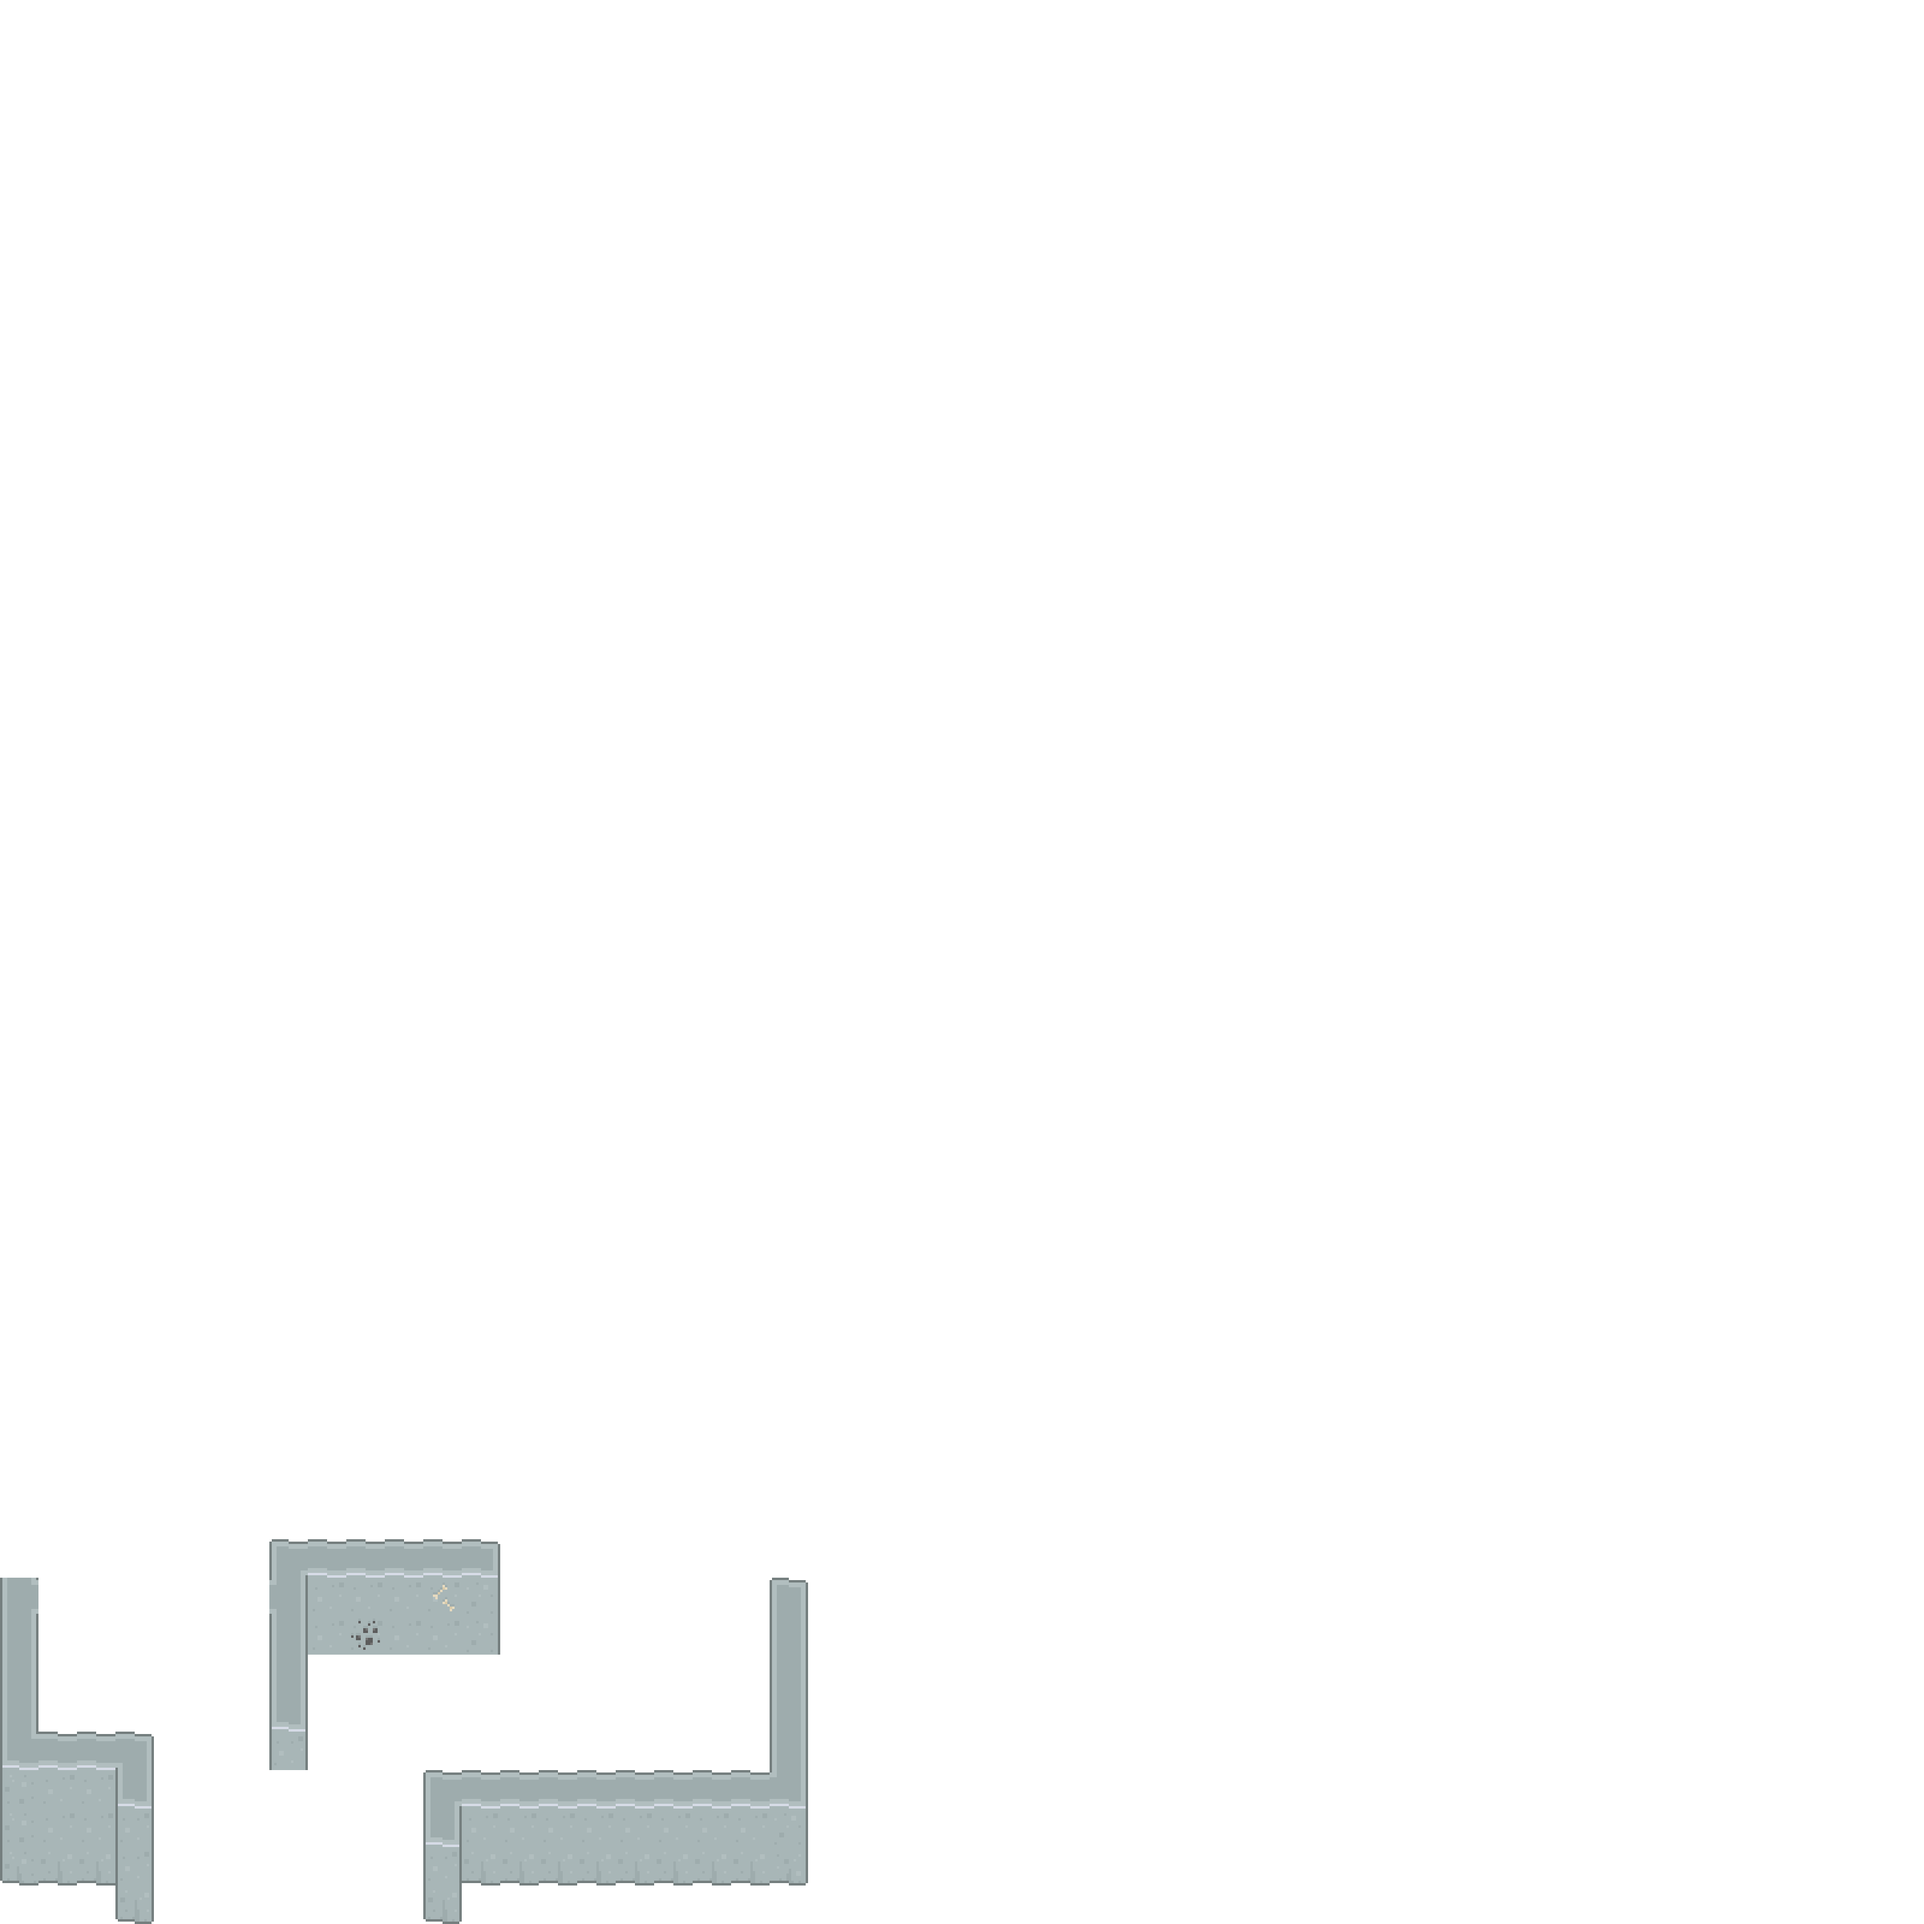
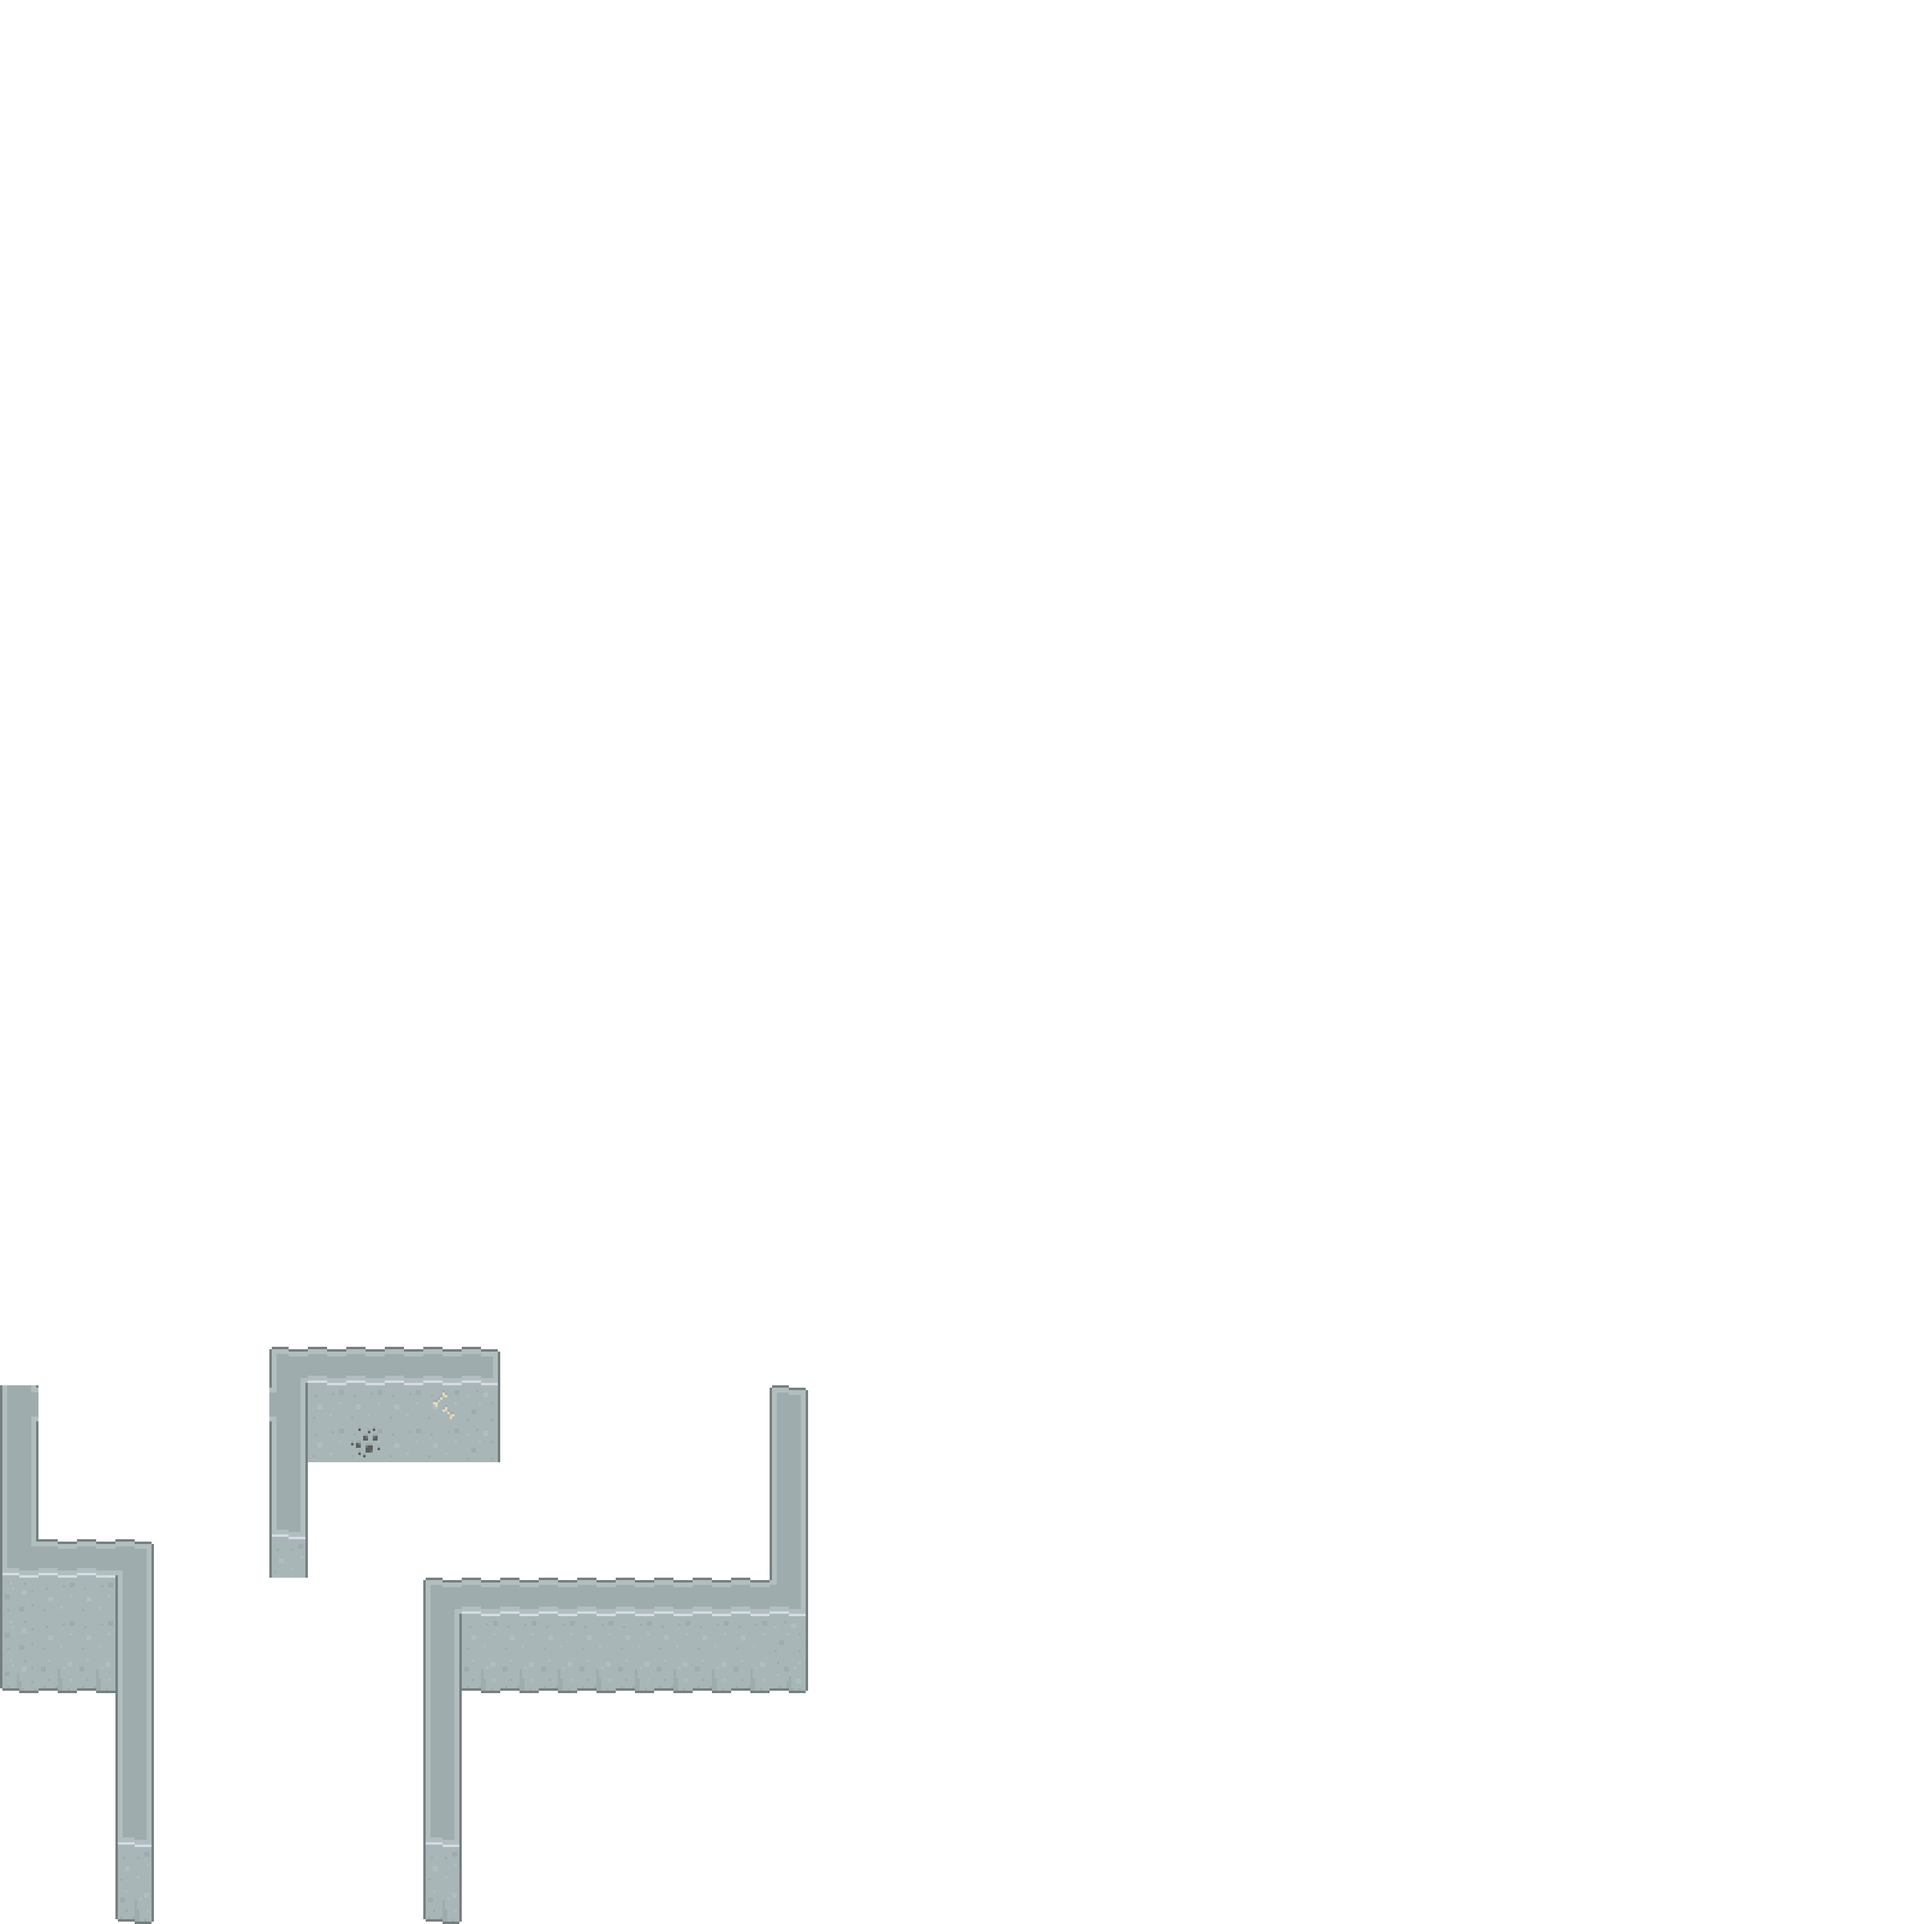
Fix Player Animations 008f8a

Changed region(s): [[0.125, 0.6875, 0.4375, 1.0], [0.0, 0.7188, 0.0938, 1.0]]

diff --git a/client/index.html b/client/index.html
@@ -175,8 +175,8 @@
 		var Img = {};
 		Img.ghost = new Image();
 		Img.ghost.src = '/client/img/ghost.png';
-		Img.map = new Image();
-		Img.map.src = '/client/img/Player Map.png';
+		Img.player = new Image();
+		Img.player.src = '/client/img/Player Map.png';
 		Img.pet = new Image();
 		Img.pet.src = '/client/img/Pet.png';
 		Img.bullet = new Image();
@@ -223,30 +223,46 @@
 			self.mapHeight = 3200;
 			self.mapWidth = 3200;
 			self.updated = true;
-			self.ani = 0;
+			self.animation = initPack.animation;
 			
 			self.draw = function(){
-				if(self.id === selfId && self.img === 'none'){
+				self.animation = Math.round(self.animation);
+				if(self.id === selfId && self.img === 'dead'){
 					ctx.drawImage(Img.ghost,self.x - 20,self.y - 40);
 					return;
 				}
-				else if(self.img === 'none'){
+				else if(self.img === 'dead'){
 					return;
 				}
-				var ani = ~~(self.ani / 3)
-				ctx.drawImage(Img.map,29 + 12 * ani,19 * 0,10,16,self.x - 20,self.y - 54,40,64);
-				if(DEBUG){
-					ctx.strokeStyle = '#000000';
-					ctx.lineWidth = 4;
-					ctx.strokeRect(self.x - 10,self.y - 8,20,16);
-				}
-				self.ani += 1;
-				if(self.ani === 18){
-					self.ani = 0;
+				switch(self.img){
+					case "down":
+						ctx.drawImage(Img.player,116 + 48 * self.animation,76 * 1,40,64,self.x - 20,self.y - 54,40,64);
+						break;
+					case "rightdown":
+						ctx.drawImage(Img.player,116 + 48 * self.animation,76 * 2,40,64,self.x - 20,self.y - 54,40,64);
+						break;
+					case "right":
+						ctx.drawImage(Img.player,116 + 48 * self.animation,76 * 3,40,64,self.x - 20,self.y - 54,40,64);
+						break;
+					case "rightup":
+						ctx.drawImage(Img.player,116 + 48 * self.animation,76 * 4,40,64,self.x - 20,self.y - 54,40,64);
+						break;
+					case "up":
+						ctx.drawImage(Img.player,116 + 48 * self.animation,76 * 5,40,64,self.x - 20,self.y - 54,40,64);
+						break;
+					case "leftup":
+						ctx.drawImage(Img.player,116 + 48 * self.animation,76 * 6,40,64,self.x - 20,self.y - 54,40,64);
+						break;
+					case "left":
+						ctx.drawImage(Img.player,116 + 48 * self.animation,76 * 7,40,64,self.x - 20,self.y - 54,40,64);
+						break;
+					case "leftdown":
+						ctx.drawImage(Img.player,116 + 48 * self.animation,76 * 8,40,64,self.x - 20,self.y - 54,40,64);
+						break;
 				}
 			}
 			self.drawName = function(){
-				if(self.img === 'none'){
+				if(self.img === 'dead'){
 					return;
 				}
 				ctx.font = "15px pixel";
@@ -273,6 +289,19 @@
 				}
 				mainAttackDiv.innerHTML = "Main Attack: " + self.attackReload / 25;
 				secondaryAttackDiv.innerHTML = "Secondary Attack: " + self.secondReload / 25;
+			}
+			self.drawLight = function(){
+				if(self.id !== selfId){
+					return;
+				}
+				if(self.map !== "Cave"){
+					return;
+				}
+				var grd = ctx.createRadialGradient(self.x,self.y,50,self.x,self.y,500);
+				grd.addColorStop(0,"rgba(0,0,0,0)");
+				grd.addColorStop(1,"rgba(0,0,0,1)");
+				ctx.fillStyle = grd;
+				ctx.fillRect(self.x - WIDTH,self.y - HEIGHT,WIDTH * 2,HEIGHT * 2);
 			}
 			Player.list[self.id] = self;
 			return self;
@@ -365,6 +394,9 @@
 						if(data.player[i].mapHeight){
 							Player.list[data.player[i].id].mapHeight = data.player[i].mapHeight;
 						}
+						if(data.player[i].animation){
+							Player.list[data.player[i].id].animation = data.player[i].animation;
+						}
 						Player.list[data.player[i].id].updated = true;
 					}
 					else{
@@ -430,7 +462,7 @@
 			STATE = 'spectator';
 		});
 		socket.on('changeMap',function(){
-			shadeSpeed = 0.05;
+			shadeSpeed = 0.08;
 			if(shadeAmount < 0){
 				shadeAmount = 0;
 			}
@@ -537,12 +569,13 @@
 			}
 			for(var i in Player.list){
 				Player.list[i].drawName();
+				Player.list[i].drawLight();
 			}
 			ctx.translate(-cameraX,-cameraY);
 			ctx.scale(1536 / window.innerWidth,1536 / window.innerWidth);
 
-			if(shadeAmount > 2){
-				shadeSpeed = -0.05;
+			if(shadeAmount > 1.6){
+				shadeSpeed = -0.08;
 			}
 			shadeAmount += shadeSpeed;
 			blackShade.style.opacity = shadeAmount;

diff --git a/Entity.js b/Entity.js
@@ -416,8 +416,8 @@ Actor = function(param){
                 setTimeout(function(){
                     self.canMove = true;
                     self.invincible = false;
-                },1000);
-            },1000);
+                },500);
+            },500);
             self.invincible = true;
             self.mapChange = true;
         }
@@ -486,6 +486,15 @@ Player = function(param){
             }
             self.updateCollisions();
         }
+        if(self.animation === -1){
+            self.animation = 0;
+        }
+        else{
+            self.animation += 0.5;
+            if(self.animation > 5){
+                self.animation = 0;
+            }
+        }
         self.attackReload += 1;
         self.secondReload += 1;
         if(!self.invincible){
@@ -516,12 +525,66 @@ Player = function(param){
         if(self.keyPress.right){
             self.spdX = 1;
         }
-        if(self.keyPress.up === false && self.keyPress.down === false && self.keyPress.left === false && self.keyPress.right === false){
-            if(self.direction >= 0 && self.direction < 45){
-
+        if(self.spdX === 1){
+            if(self.spdY === 1){
+                self.img = "rightdown";
             }
-            else if(self.direction >= 0 && self.direction < 45){
-
+            else if(self.spdY === -1){
+                self.img = "rightup";
+            }
+            else if(self.spdY === 0){
+                self.img = "right";
+            }
+        }
+        else if(self.spdX === -1){
+            if(self.spdY === 1){
+                self.img = "leftdown";
+            }
+            else if(self.spdY === -1){
+                self.img = "leftup";
+            }
+            else if(self.spdY === 0){
+                self.img = "left";
+            }
+        }
+        else if(self.spdX === 0){
+            if(self.spdY === 1){
+                self.img = "down";
+            }
+            else if(self.spdY === -1){
+                self.img = "up";
+            }
+            else if(self.spdY === 0){
+                self.animation = -1;
+                switch(Math.round(self.direction / 45)){
+                    case 0:
+                        self.img = "right"
+                        break;
+                    case 1:
+                        self.img = "rightdown"
+                        break;
+                    case 2:
+                        self.img = "down"
+                        break;
+                    case 3:
+                        self.img = "leftdown"
+                        break;
+                    case 4:
+                        self.img = "left"
+                        break;
+                    case -1:
+                        self.img = "rightup"
+                        break;
+                    case -2:
+                        self.img = "up"
+                        break;
+                    case -3:
+                        self.img = "leftup"
+                        break;
+                    case -4:
+                        self.img = "left"
+                        break;
+                }
             }
         }
         if(self.x < self.width / 2){
@@ -571,6 +634,7 @@ Player = function(param){
             img:self.img,
             attackReload:self.attackReload,
             secondReload:self.secondReload,
+            animation:self.animation,
         }
     }
     self.getUpdatePack = function(){
@@ -650,7 +714,7 @@ Player.spectate = function(socket){
     }
 	socket.emit("spectator");
     if(Player.list[socket.id]){
-        Player.list[socket.id].img = 'none';
+        Player.list[socket.id].img = 'dead';
     }
 }
 Player.onDisconnect = function(socket){

diff --git a/app.js b/app.js
@@ -1,5 +1,5 @@
 
-SERVER = 'heroku';
+SERVER = 'localhost';
 
 var express = require('express');
 var app = express();
